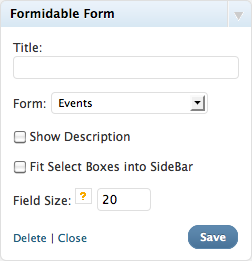
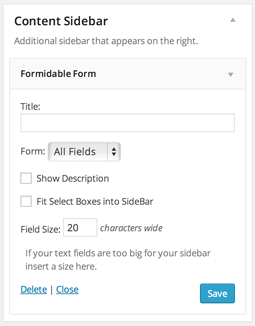
update screenshot 6 and no entries page
git-svn-id: https://plugins.svn.wordpress.org/formidable/trunk@826242 b8457f37-d9ea-0310-8a92-e5e31aec5664

diff --git a/classes/views/frm-entries/no_entries.php b/classes/views/frm-entries/no_entries.php
@@ -16,13 +16,13 @@ if(isset($form->options['no_save']) and $form->options['no_save']){ ?>
         <h3><?php _e('Option 1: Generate your shortcode', 'formidable') ?></h3>
         <ol>
         <li><?php _e('Go to your WordPress page or post.', 'formidable') ?></li>
-        <li class="alignleft" style="width:45%"><?php _e('Click on the form icon above the content box to open a popup with additional options.', 'formidable') ?><br/>
-        <img alt="" src="http://static.strategy11.com.s3.amazonaws.com/insert-shortcode-icon.png" align="none"></li>
-        <li class="alignright" style="width:45%"><?php _e('Select your form from the dropdown and check the boxes to show the title and description if desired.', 'formidable') ?><br/>
-        <img alt="" src="http://static.strategy11.com.s3.amazonaws.com/insert-form-shortcode.png" align="none"></li>
-        <li class="alignright" style="width:45%"><?php _e('Click the "Insert Form" button.', 'formidable') ?></li>
+        <li>
+			<?php _e('Click on the "Add Form" button above the content box.', 'formidable') ?><br/>
+			<img alt="" src="http://static.strategy11.com.s3.amazonaws.com/insert-shortcode-icon.png">
+		</li>
+		<li><?php _e('Select your form from the dropdown and check the boxes to show the title and description if desired.', 'formidable') ?></li>
+        <li><?php _e('Click the "Insert Form" button.', 'formidable') ?></li>
         </ol>
-        <div class="clear"></div>
     </td></tr>
     <tr><td colspan="<?php echo $colspan ?>">
         <h3><?php _e('Option 2: Add a Widget', 'formidable') ?></h3>
@@ -31,7 +31,7 @@ if(isset($form->options['no_save']) and $form->options['no_save']){ ?>
             <li><?php _e('Select a form from the "Form" drop-down.', 'formidable') ?></li>
             <li><?php _e('Click the "Save" button', 'formidable') ?></li>
         </ol>
-        <img src="<?php echo FrmAppHelper::plugin_url() ?>/screenshot-2.png" alt="<?php esc_attr_e('Formidable Form Widget', 'formidable') ?>" title="<?php esc_attr_e('Formidable Form Widget', 'formidable') ?>" height="261" width="252" />
+        <img src="<?php echo FrmAppHelper::plugin_url() ?>/screenshot-6.png" alt="<?php esc_attr_e('Formidable Form Widget', 'formidable') ?>" title="<?php esc_attr_e('Formidable Form Widget', 'formidable') ?>" height="261" width="252" />
     </td></tr>
     <tr class="alternate"><td colspan="<?php echo $colspan ?>">    
         <h3><?php _e('Option 3: Insert the shortcode or PHP', 'formidable') ?></h3>
